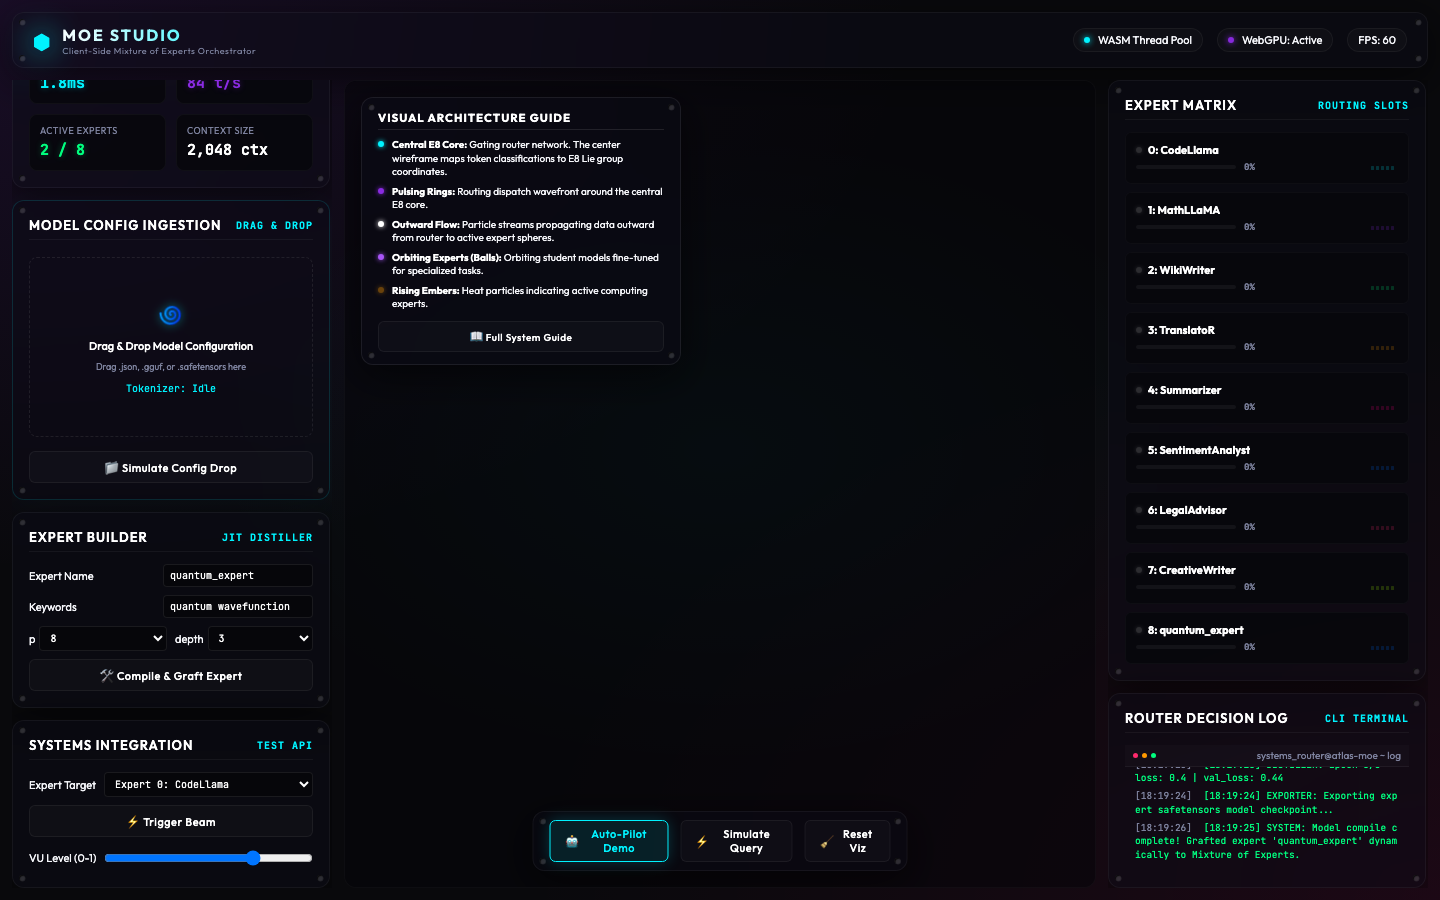
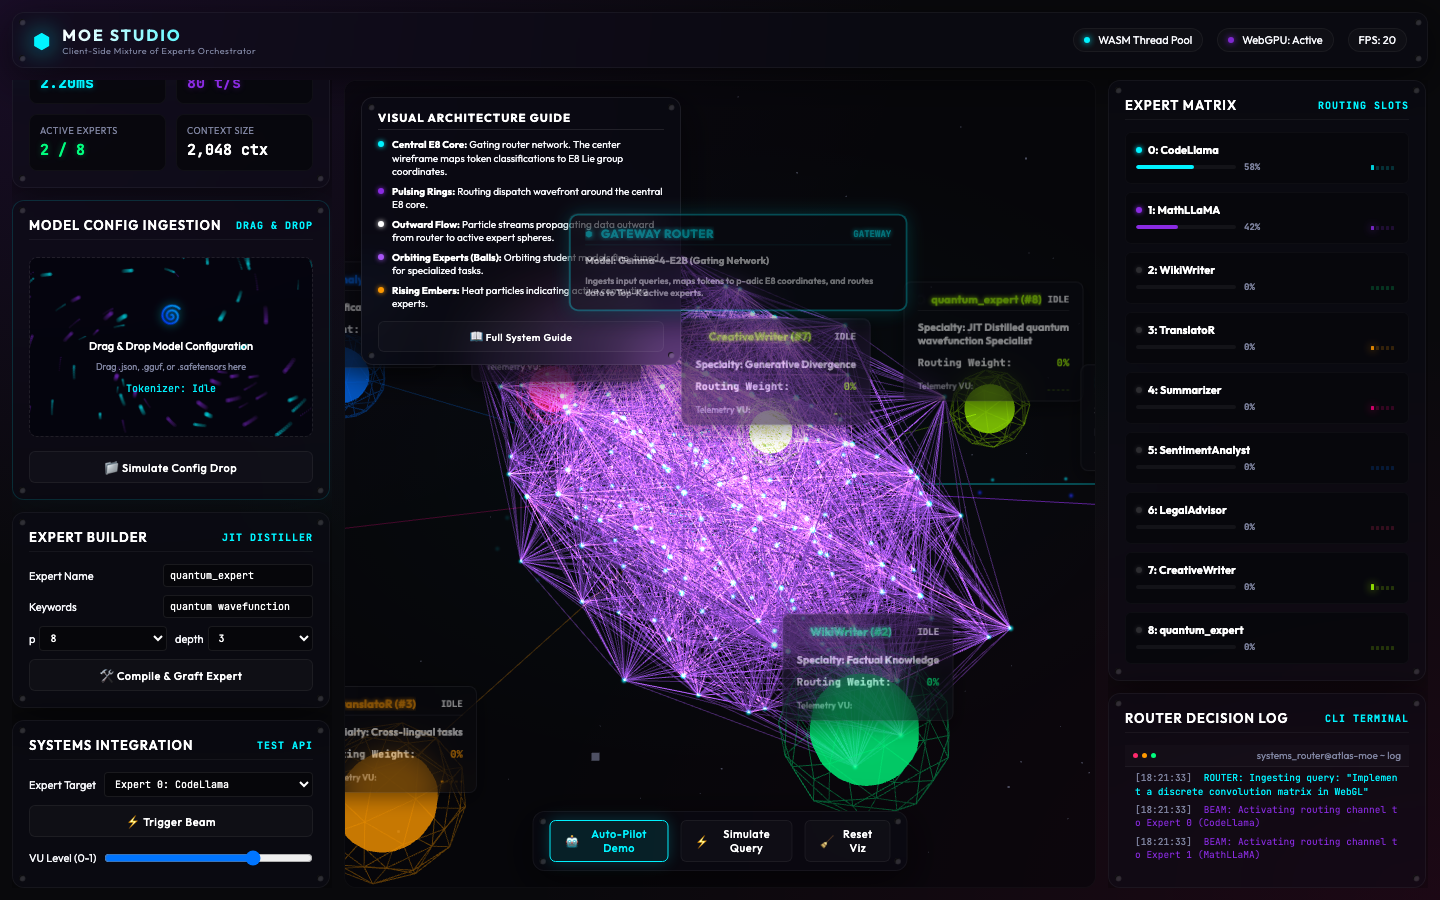
fix(moe-studio): resolve DOM loading order bug crashing WebGL initialization

diff --git a/docs/moe_designer.html b/docs/moe_designer.html
@@ -309,6 +309,61 @@
         </div>
     </div>
 
+    <!-- Help & System Architecture Explainer Modal -->
+    <div class="help-modal-overlay" id="help-modal">
+        <div class="help-modal-content glass-panel">
+            <div class="rack-screw top-left"></div>
+            <div class="rack-screw top-right"></div>
+            <div class="rack-screw bottom-left"></div>
+            <div class="rack-screw bottom-right"></div>
+            
+            <div class="help-modal-header">
+                <h2>📖 MoE Studio Architecture Guide</h2>
+                <button type="button" class="btn-cyber" id="btn-close-guide" style="padding: 4px 10px; font-size: 11px;">✕</button>
+            </div>
+            
+            <div class="help-modal-body">
+                <h3>WebGL Visualization Mapping ("The Balls & Beams")</h3>
+                <p>This developer dashboard provides a real-time, interactive simulation of our Mixture of Experts (MoE) neural network architecture running locally on device.</p>
+                
+                <ul class="guide-list">
+                    <li>
+                        <strong>🟣 Central E8 Lattice Core:</strong> The complex wireframe structure in the center of the 3D space. It represents our <strong>Gemma-4-E2B Gateway Router</strong> gating network. Prompt embeddings are classified by projecting them into an 8-dimensional space derived from the 240 root coordinates of the $E_8$ Lie group lattice.
+                    </li>
+                    <li>
+                        <strong>🟢 Orbiting Expert Spheres ("The Balls"):</strong> The specialized colored spheres orbiting the central core represent individual expert models (e.g. CodeLlama, MathLLaMA). They wait in idle orbit until the gating network router dispatches tokens to them.
+                    </li>
+                    <li>
+                        <strong>🔵 Concentric Wavefront Rings:</strong> Flat concentric rings on the X-Z plane around the central E8 core. When a routing event occurs, these rings flash and scale up to represent a pulse wave, and the gateway router label dynamically changes from <strong>"GATEWAY"</strong> to <strong>"ROUTING"</strong>.
+                    </li>
+                    <li>
+                        <strong>⚪ Outward Flow Particle Beams:</strong> Glowing streams of particles traveling <em>outward</em> from the central gateway along the connection lines to active expert spheres. This demonstrates the exact direction of data flow from the gateway router to the target experts.
+                    </li>
+                    <li>
+                        <strong>🔥 Rising Orange Embers (Ambient Heat):</strong> Orange particles rising from expert spheres when they are selected, showing that the expert is actively computing.
+                    </li>
+                    <li>
+                        <strong>📊 VU Level Meters & Expert Matrix:</strong> Located on the right sidebar, these track real-time routing weights (Top-K marginal probabilities) and throughput per expert.
+                    </li>
+                </ul>
+                
+                <h3>Interactive Sandbox Features</h3>
+                <ul class="guide-list">
+                    <li><strong>Auto-Pilot Demo:</strong> Periodically dispatches automated mock queries to show dynamic routing transitions.</li>
+                    <li><strong>Simulate Query:</strong> Triggers a single query simulation.</li>
+                    <li><strong>Compile & Graft Expert (JIT Distiller):</strong> Compile new expert configurations in real-time, which then dynamically orbit the core.</li>
+                    <li><strong>Model Config Ingestion:</strong> Drag and drop custom Safetensor/GGUF JSON configs directly onto the vortex to load new models.</li>
+                </ul>
+            </div>
+            
+            <div class="help-modal-footer">
+                <button type="button" class="btn-cyber" id="btn-close-guide-footer" style="width: 120px; justify-content: center;">
+                    Dismiss Guide
+                </button>
+            </div>
+        </div>
+    </div>
+
     <!-- MAIN SCRIPT (Logic & Rendering) -->
     <script>
         // --- DATA STRUCTURES ---
@@ -1901,60 +1956,5 @@
         // Initial tokenizer status
         window.setTokenizerProgress(0);
     </script>
-
-    <!-- Help & System Architecture Explainer Modal -->
-    <div class="help-modal-overlay" id="help-modal">
-        <div class="help-modal-content glass-panel">
-            <div class="rack-screw top-left"></div>
-            <div class="rack-screw top-right"></div>
-            <div class="rack-screw bottom-left"></div>
-            <div class="rack-screw bottom-right"></div>
-            
-            <div class="help-modal-header">
-                <h2>📖 MoE Studio Architecture Guide</h2>
-                <button type="button" class="btn-cyber" id="btn-close-guide" style="padding: 4px 10px; font-size: 11px;">✕</button>
-            </div>
-            
-            <div class="help-modal-body">
-                <h3>WebGL Visualization Mapping ("The Balls & Beams")</h3>
-                <p>This developer dashboard provides a real-time, interactive simulation of our Mixture of Experts (MoE) neural network architecture running locally on device.</p>
-                
-                <ul class="guide-list">
-                    <li>
-                        <strong>🟣 Central E8 Lattice Core:</strong> The complex wireframe structure in the center of the 3D space. It represents our <strong>Gemma-4-E2B Gateway Router</strong> gating network. Prompt embeddings are classified by projecting them into an 8-dimensional space derived from the 240 root coordinates of the $E_8$ Lie group lattice.
-                    </li>
-                    <li>
-                        <strong>🟢 Orbiting Expert Spheres ("The Balls"):</strong> The specialized colored spheres orbiting the central core represent individual expert models (e.g. CodeLlama, MathLLaMA). They wait in idle orbit until the gating network router dispatches tokens to them.
-                    </li>
-                    <li>
-                        <strong>🔵 Concentric Wavefront Rings:</strong> Flat concentric rings on the X-Z plane around the central E8 core. When a routing event occurs, these rings flash and scale up to represent a pulse wave, and the gateway router label dynamically changes from <strong>"GATEWAY"</strong> to <strong>"ROUTING"</strong>.
-                    </li>
-                    <li>
-                        <strong>⚪ Outward Flow Particle Beams:</strong> Glowing streams of particles traveling <em>outward</em> from the central gateway along the connection lines to active expert spheres. This demonstrates the exact direction of data flow from the gateway router to the target experts.
-                    </li>
-                    <li>
-                        <strong>🔥 Rising Orange Embers (Ambient Heat):</strong> Orange particles rising from expert spheres when they are selected, showing that the expert is actively computing.
-                    </li>
-                    <li>
-                        <strong>📊 VU Level Meters & Expert Matrix:</strong> Located on the right sidebar, these track real-time routing weights (Top-K marginal probabilities) and throughput per expert.
-                    </li>
-                </ul>
-                
-                <h3>Interactive Sandbox Features</h3>
-                <ul class="guide-list">
-                    <li><strong>Auto-Pilot Demo:</strong> Periodically dispatches automated mock queries to show dynamic routing transitions.</li>
-                    <li><strong>Simulate Query:</strong> Triggers a single query simulation.</li>
-                    <li><strong>Compile & Graft Expert (JIT Distiller):</strong> Compile new expert configurations in real-time, which then dynamically orbit the core.</li>
-                    <li><strong>Model Config Ingestion:</strong> Drag and drop custom Safetensor/GGUF JSON configs directly onto the vortex to load new models.</li>
-                </ul>
-            </div>
-            
-            <div class="help-modal-footer">
-                <button type="button" class="btn-cyber" id="btn-close-guide-footer" style="width: 120px; justify-content: center;">
-                    Dismiss Guide
-                </button>
-            </div>
-        </div>
-    </div>
 </body>
 </html>